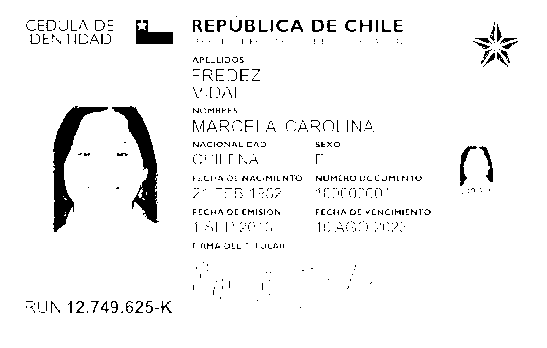
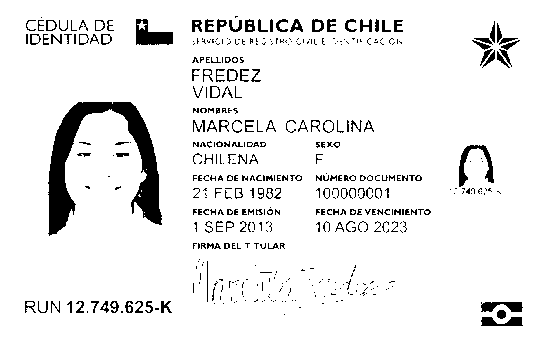
docs: update image and specify text

diff --git a/README.md b/README.md
@@ -12,37 +12,45 @@ Flask API for text recognition of documents with [OpenCV](https://opencv.org/) a
 
 ![black and white](img/b&n.png)
 
+What OpenCV interprets:
 ```
-SUN 12.749.625-K
+SANS Mem REPUBLICA DE CHILE i
 
-REPUBLICA DE CHILE i,
-toe re ale
+   
 
-wR
+preuibos WT
+FREDEZ
 
-aes
-VEDAL
+VIDAL
 
-MARCEI & CAROLINA
+MARCELA CAROLINA
 
-Crna oF ( \
-pe tata Te
+CHILENA F
 
-  
+24 FEB 1982 1909009001 FANE
 
-tall BO
-
-2:
+1 SEP 2013, 10 AGO 2623
 
  
 
-WAG
+   
+
+re
+
+is
+
+ 
+
+RUN 12.749.625-K
+
+a
 ```
 
 ### Adaptive binarization
 
 ![black and white](img/proc.png)
 
+What OpenCV interprets:
 ```
 CEDULA DE REPUBLICA DE CHILE
 
